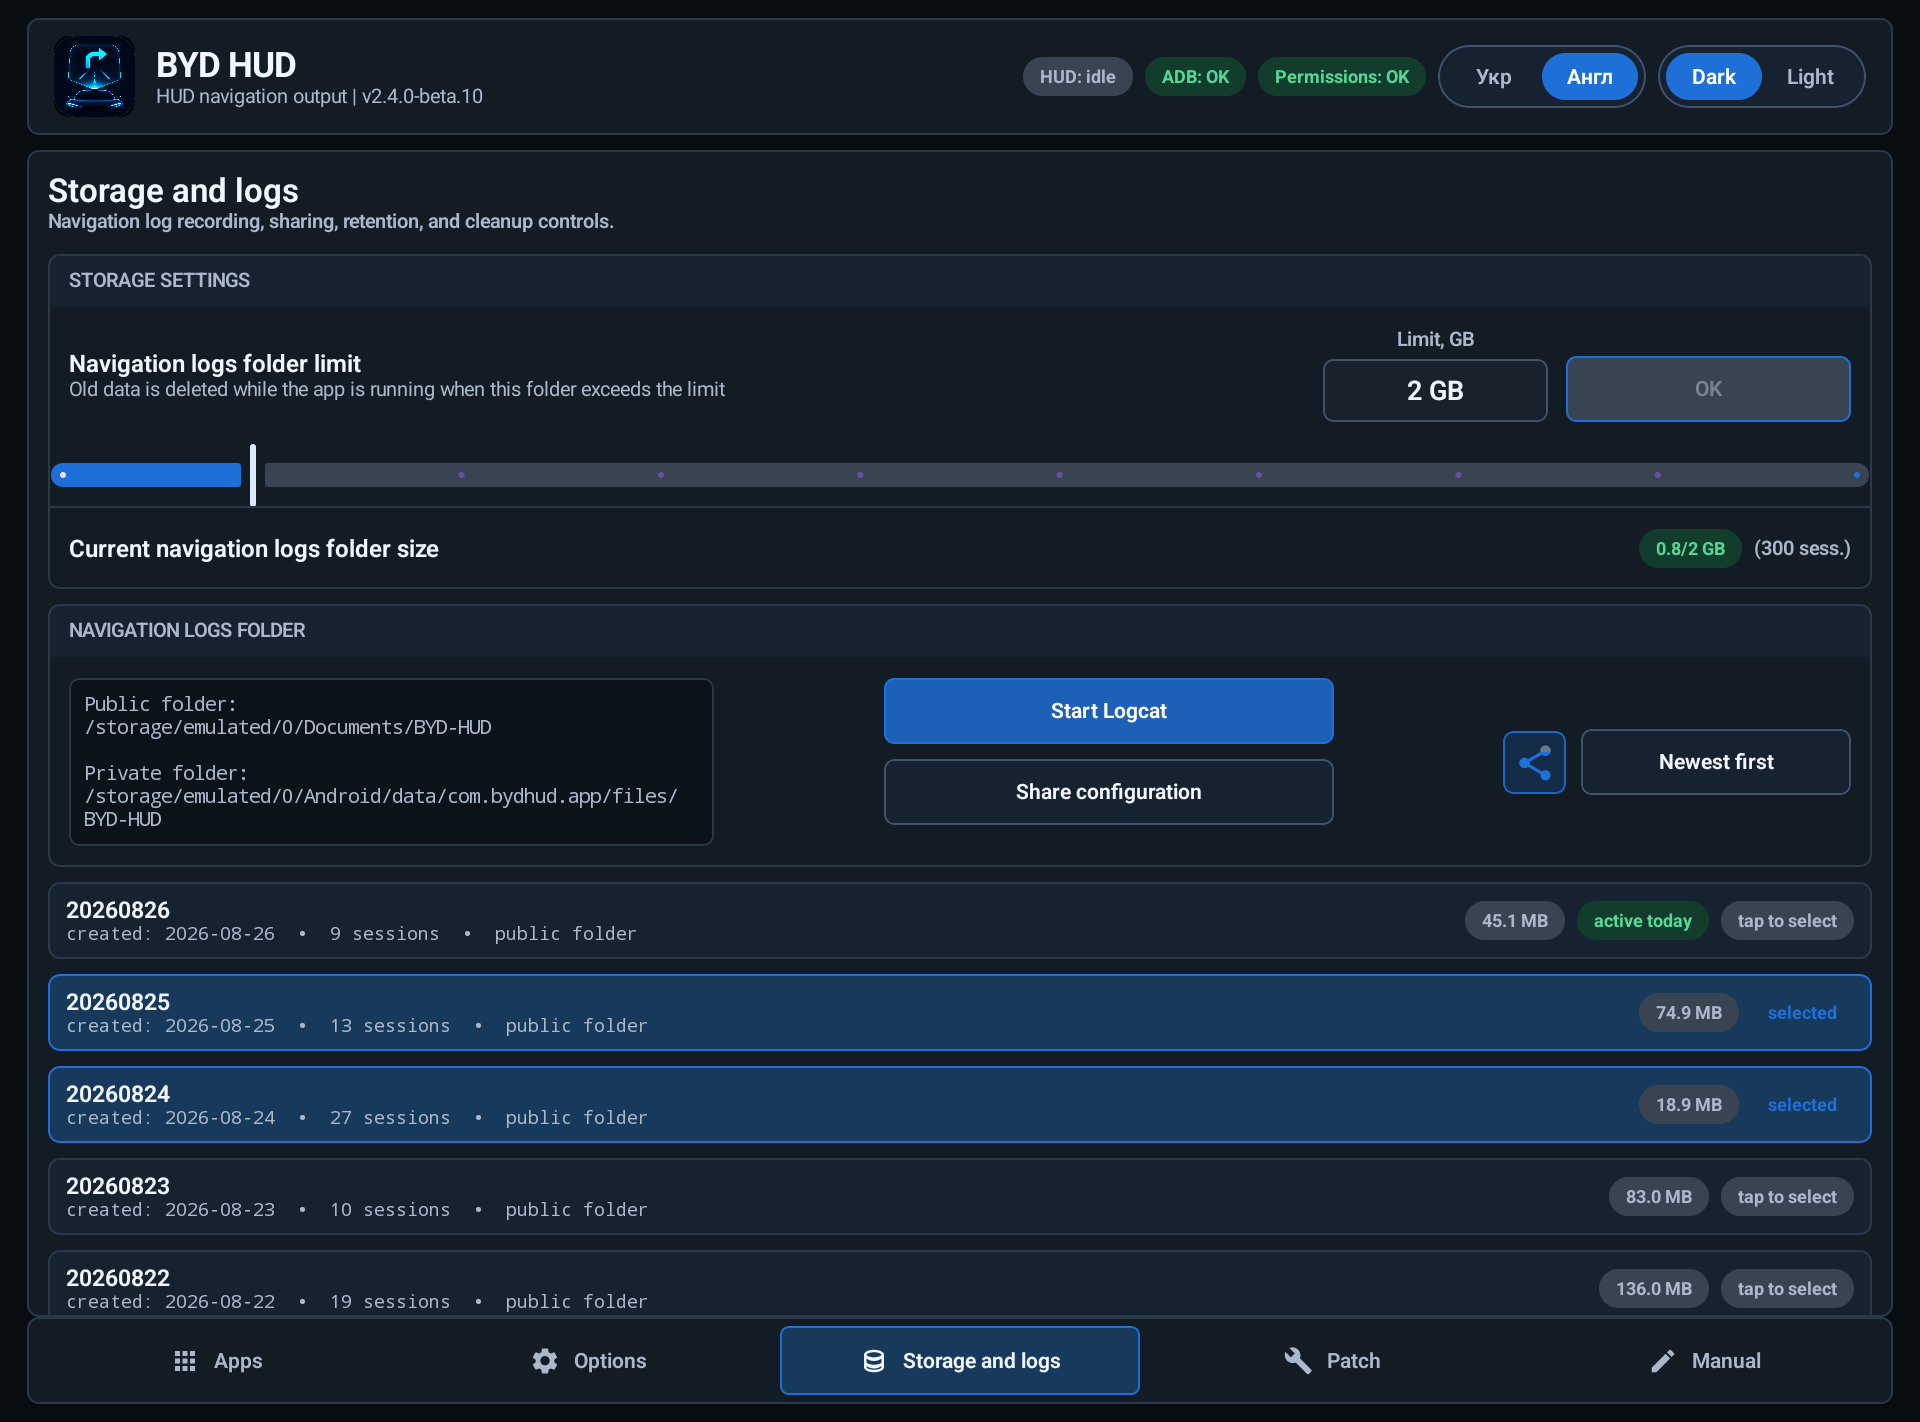
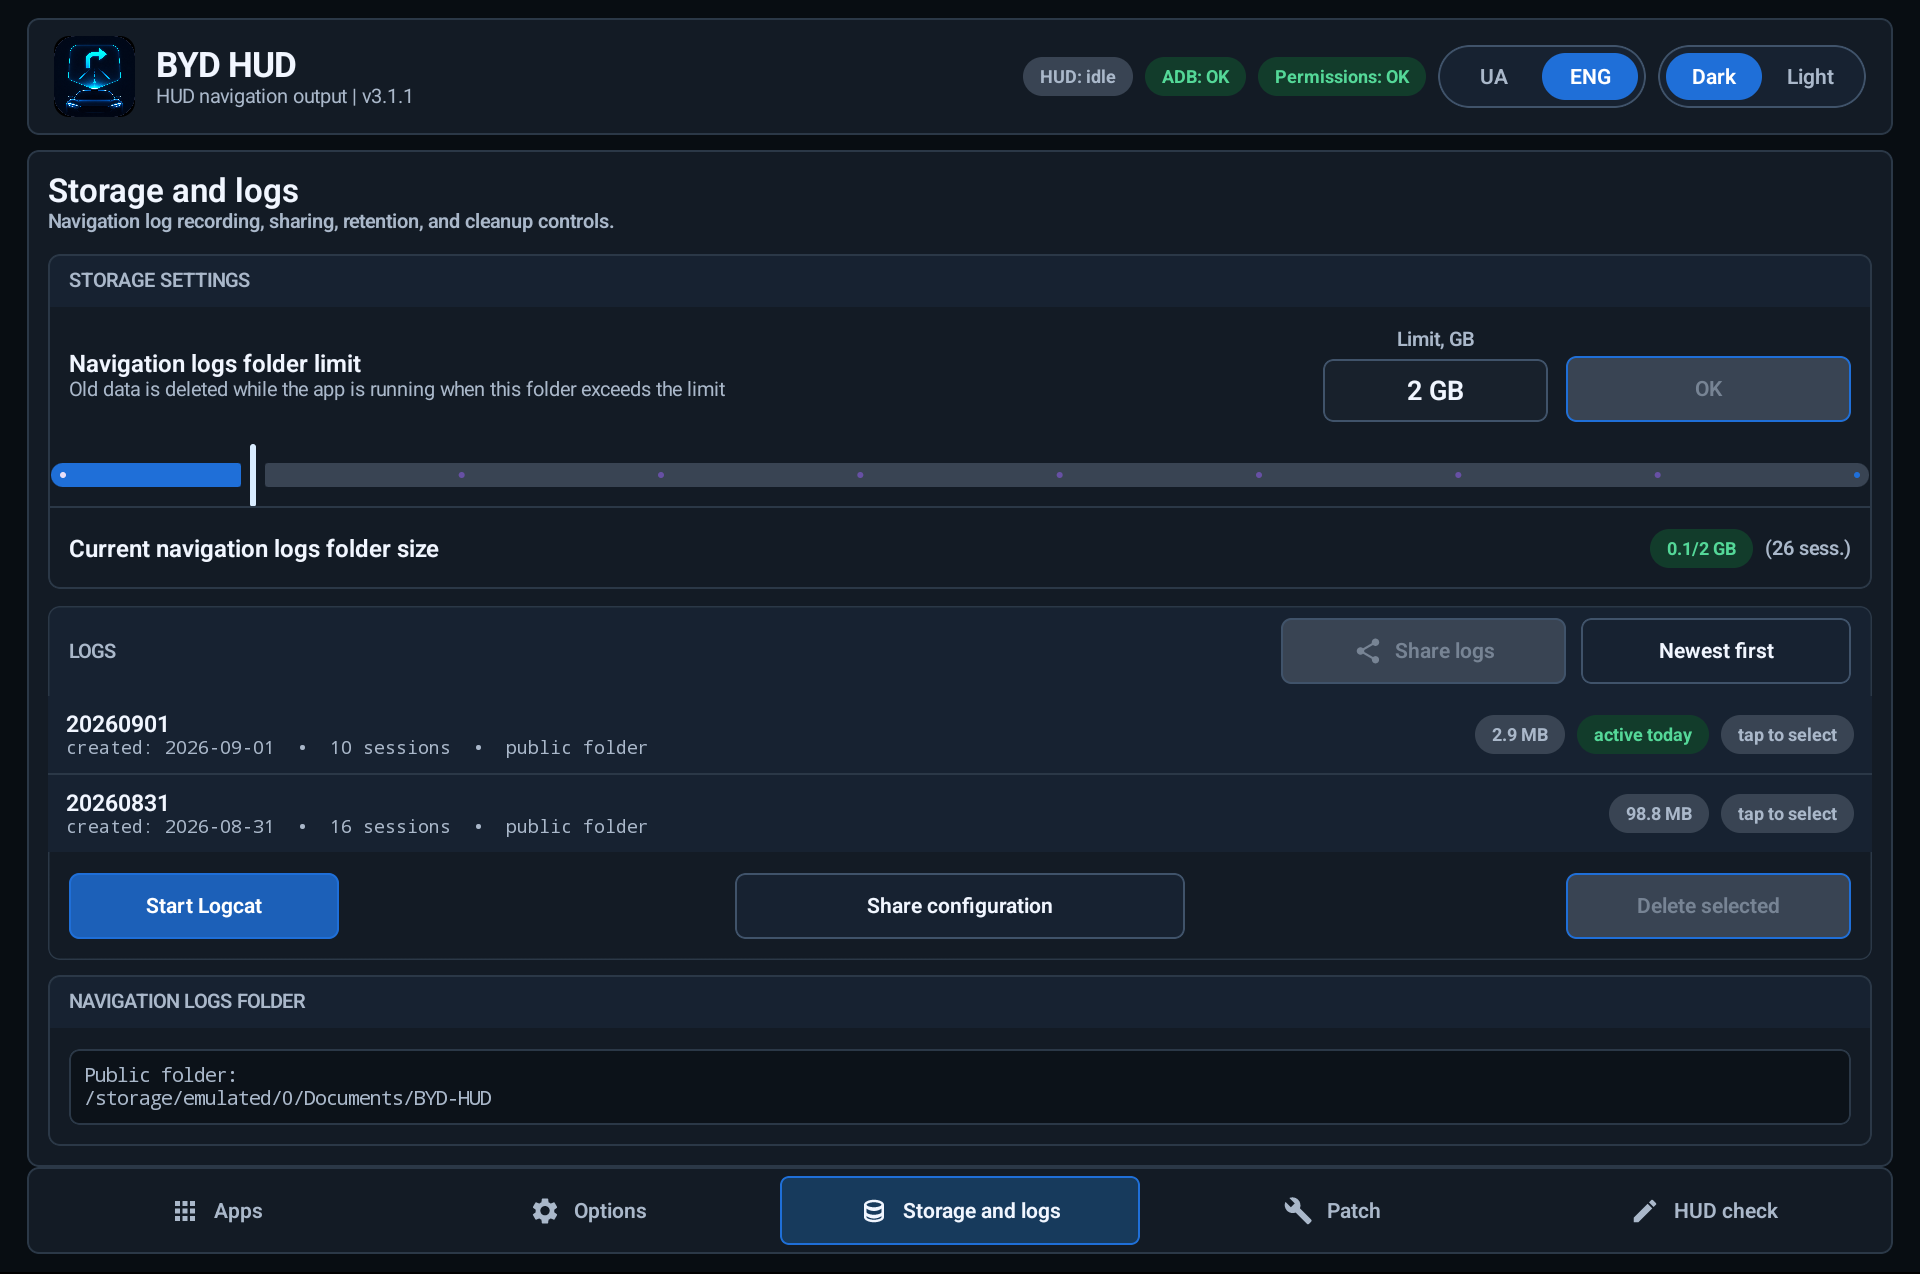
chore(docs): update README

Changed region(s): [[0.0, 0.0, 1.0, 1.0], [0.1875, 0.9184, 0.2188, 0.949]]

diff --git a/README.uk.md b/README.uk.md
@@ -303,19 +303,19 @@ BYD HUD зберігає навігаційні дані в теках за дн
 
 - показує поточний розмір логів та налаштоване обмеження;
 - групує навігаційні логи, snapshots, скріншоти та опційний logcat за днями;
-- показує розташування приватної та публічної тек із журналом навігації;
+- показує доступні шляхи до тек із журналом навігації під списком логів;
 - надсилає або видаляє лише вибрані дні;
 - перед створенням ZIP показує кількість файлів, розмір архіву та попередження про конфіденційні дані;
 - використовує одну кнопку `Почати Logcat` / `Зупинити Logcat`, яка змінюється відповідно до стану запису системного журналу;
 - надає `Поділитись конфігурацією` для меншого діагностичного архіву з даними про пристрій, дозволи, мережу, патчера і налаштування навігаційного виводу.
 
-`Почати Logcat` / `Зупинити Logcat`, `Поділитись` і сортування розташовані поруч зі шляхами тек. Дні вибираються в окремій секції `Логи`; внизу неї — `Поділитись конфігурацією` та `Видалити вибране`. Надсилання конфігурації не потребує вибраних днів.
+`Поділитись логами` і сортування залишаються вгорі секції `Логи`; її обмежений за висотою список днів прокручується окремо, тому нижні кнопки залишаються доступними. Внизу секції розташовані `Почати Logcat` / `Зупинити Logcat`, `Поділитись конфігурацією` та `Видалити вибране`. Доступні шляхи показано нижче в секції `Тека журналу навігації`. Надсилання конфігурації не потребує вибраних днів.
 
 <p align="center"><img src="docs/screenshots/uk/storage-and-logs.png" alt="Вкладка Сховище та логи з журналами за днями" width="100%"></p>
 
 Підготовка архіву відображається в постійній картці прогресу, яка залишається видимою на інших вкладках і яку можна безпечно зупинити. Вона розміщується разом із картками патчення Waze і Google Maps, не перекриваючи їх.
 
-`Поділитись` пропонує два явні способи:
+`Поділитись логами` пропонує два явні способи:
 
 - `Інший застосунок` відкриває стандартне системне меню Android;
 - `Надіслати розробнику` одноразово завантажує той самий вибраний ZIP у сервіс Sentry.
@@ -418,7 +418,7 @@ BYD HUD не надсилає автоматично у сервіс Sentry зв
 
 1. За можливості відтворіть її з увімкненою опцією `Зберігати діагностичні скріншоти та розширені логи`.
 2. Відкрийте `Сховище та логи` та виберіть лише день із проблемою.
-3. Натисніть `Поділитись` і виберіть месенджер або `Надіслати розробнику`.
+3. Натисніть `Поділитись логами` і виберіть месенджер або `Надіслати розробнику`.
 4. Після перевірки вимкніть розширену діагностику, щоб зменшити використання сховища.
 
 Для проблеми з дозволами, пристроєм, патчером або запуском скористайтеся `Сховище та логи -> Логи -> Поділитись конфігурацією`.

diff --git a/README.md b/README.md
@@ -304,19 +304,19 @@ BYD HUD stores navigation evidence in day folders so one trip can be shared with
 
 - shows current log size and the configured size limit;
 - groups navigation logs, snapshots, screenshots, and optional logcat by day;
-- shows the private and public navigation-log folder locations;
+- shows the available navigation-log folder locations below the log list;
 - shares or deletes only the selected days;
 - shows file count, archive size, and a sensitive-data warning before creating a ZIP;
 - uses one stateful `Start Logcat` / `Stop Logcat` button for explicit system-log recording;
 - provides `Share configuration` for a smaller diagnostic archive containing device, permission, network, patcher, and navigation-output details.
 
-`Start Logcat` / `Stop Logcat`, `Share` and sorting sit beside the folder paths. Select days in the separate `Logs` section; its footer contains `Share configuration` and `Delete selected`. Configuration sharing does not require selected days.
+`Share logs` and sorting stay at the top of `Logs`; its bounded day list scrolls independently so the footer remains reachable. The footer contains `Start Logcat` / `Stop Logcat`, `Share configuration`, and `Delete selected`. Available folder paths are shown in `Navigation logs folder` below. Configuration sharing does not require selected days.
 
 <p align="center"><img src="docs/screenshots/en/storage-and-logs.png" alt="Storage and logs tab with day-based diagnostics" width="100%"></p>
 
 Archive preparation uses a persistent progress card that remains visible across tabs and can be stopped safely. It stacks with Waze and Google Maps patch cards instead of overlapping them.
 
-`Share` offers two explicit destinations:
+`Share logs` offers two explicit destinations:
 
 - `Another app` opens the normal Android share chooser;
 - `Send to developer` uploads the same selected ZIP to the Sentry service once.
@@ -419,7 +419,7 @@ For a navigation-output problem:
 
 1. Reproduce it with `Save diagnostic screenshots and extended logs` enabled when possible.
 2. Open `Storage and logs` and select only the affected day.
-3. Press `Share` and choose your messenger or `Send to developer`.
+3. Press `Share logs` and choose your messenger or `Send to developer`.
 4. Disable detailed diagnostics after the test to reduce storage use.
 
 For a permission, device, patcher, or startup problem, use `Storage and logs -> Logs -> Share configuration` instead.
